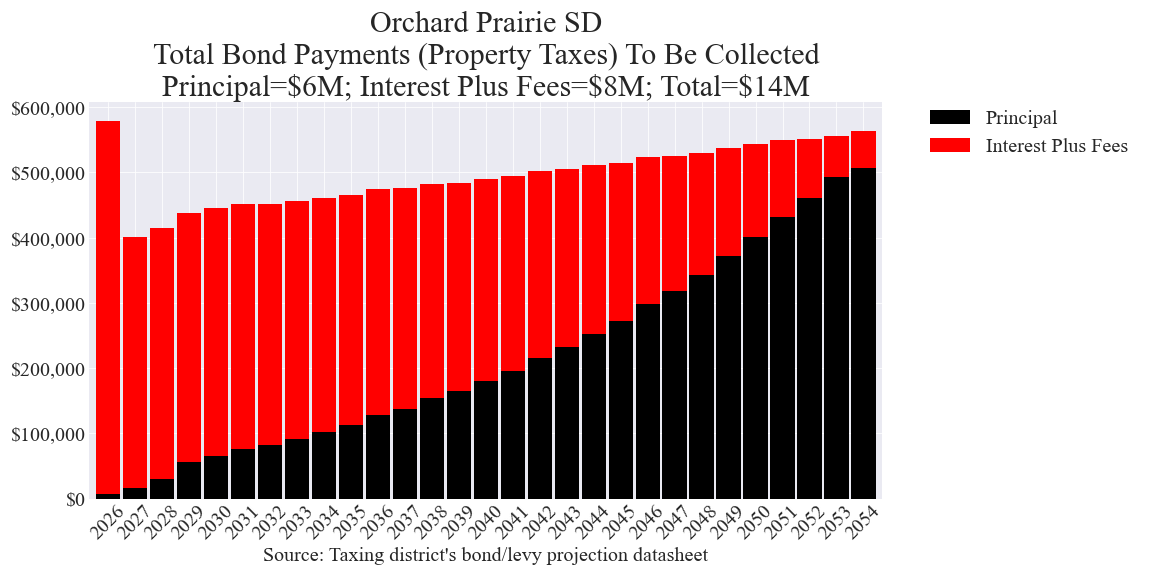
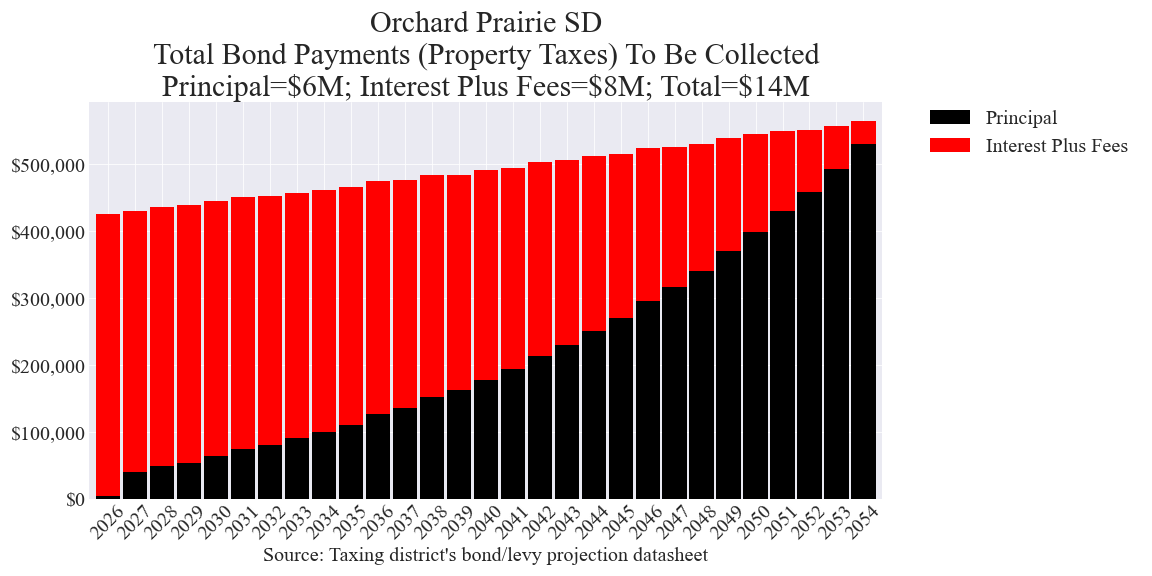
Updated elec 20241105
Mod:
Orchard Prairie

diff --git a/_includes/cost_estimates/20241105/OrchardPrairie_20241105_Enhanced.html b/_includes/cost_estimates/20241105/OrchardPrairie_20241105_Enhanced.html
@@ -16,7 +16,7 @@
 	sampleParcelAVMin = 100000;
 	sampleParcelAVMax = 2000000;
 	totalBondPrincipal = 6200000;
-	totalBondInterest = 8179000;
+	totalBondInterest = 8074000;
 	totalBondCost = totalBondPrincipal + totalBondInterest;
 	sampleParcelPOF = sampleParcelAV / totalBondAV;
 	totalBondCostParcel = 0;
@@ -39,35 +39,35 @@
 		data.addColumn('number', 'Interest + Fees');
 
 		data.addRows([
-			['2026', 7360.0, 571640.0],
-			['2027', 15818.0, 385182.0],
-			['2028', 30802.0, 384198.0],
-			['2029', 55718.0, 382282.0],
-			['2030', 66183.0, 378817.0],
-			['2031', 76300.0, 374700.0],
-			['2032', 82046.0, 369954.0],
-			['2033', 92149.0, 364851.0],
-			['2034', 101880.0, 359120.0],
-			['2035', 112217.0, 352783.0],
-			['2036', 128197.0, 345803.0],
-			['2037', 138171.0, 337829.0],
-			['2038', 153765.0, 329235.0],
-			['2039', 164330.0, 319670.0],
-			['2040', 180551.0, 309449.0],
-			['2041', 195781.0, 298219.0],
-			['2042', 215959.0, 286041.0],
-			['2043', 232392.0, 272608.0],
-			['2044', 252846.0, 258154.0],
-			['2045', 272573.0, 242427.0],
-			['2046', 298527.0, 225473.0],
-			['2047', 318096.0, 206904.0],
-			['2048', 342881.0, 187119.0],
-			['2049', 372209.0, 165791.0],
-			['2050', 401360.0, 142640.0],
-			['2051', 431325.0, 117675.0],
-			['2052', 460153.0, 90847.0],
-			['2053', 493774.0, 62226.0],
-			['2054', 506637.0, 57363.0],
+			['2026', 4020.0, 420980.0],
+			['2027', 39273.0, 389727.0],
+			['2028', 48743.0, 387257.0],
+			['2029', 53809.0, 384191.0],
+			['2030', 64194.0, 380806.0],
+			['2031', 74231.0, 376769.0],
+			['2032', 79901.0, 372099.0],
+			['2033', 89926.0, 367074.0],
+			['2034', 99583.0, 361417.0],
+			['2035', 109846.0, 355154.0],
+			['2036', 125756.0, 348244.0],
+			['2037', 135666.0, 340334.0],
+			['2038', 151199.0, 331801.0],
+			['2039', 161710.0, 322290.0],
+			['2040', 177881.0, 312119.0],
+			['2041', 193070.0, 300930.0],
+			['2042', 213214.0, 288786.0],
+			['2043', 229625.0, 275375.0],
+			['2044', 250069.0, 260931.0],
+			['2045', 269798.0, 245202.0],
+			['2046', 295768.0, 228232.0],
+			['2047', 315372.0, 209628.0],
+			['2048', 340209.0, 189791.0],
+			['2049', 369608.0, 168392.0],
+			['2050', 398856.0, 145144.0],
+			['2051', 428944.0, 120056.0],
+			['2052', 457925.0, 93075.0],
+			['2053', 491729.0, 64271.0],
+			['2054', 530075.0, 33925.0],
 
 		]);
 
@@ -174,9 +174,9 @@
 		data5.addRows([
 			['2024', 0, 0, 0, 0, 0, 0, 225000, 0, 397518, 724513],
 			['2025', 0, 0, 0, 0, 0, 0, 225000, 0, 0, 0],
-			['2026', 0, 579000, 0, 0, 0, 0, 0, 240000, 0, 0],
-			['2027', 0, 401000, 0, 0, 0, 0, 0, 245000, 0, 0],
-			['2028', 0, 415000, 0, 0, 0, 0, 0, 248000, 0, 0],
+			['2026', 0, 425000, 0, 0, 0, 0, 0, 240000, 0, 0],
+			['2027', 0, 429000, 0, 0, 0, 0, 0, 245000, 0, 0],
+			['2028', 0, 436000, 0, 0, 0, 0, 0, 248000, 0, 0],
 			['2029', 0, 438000, 0, 0, 0, 0, 0, 250000, 0, 0],
 			['2030', 0, 445000, 0, 0, 0, 0, 0, 252000, 0, 0],
 			['2031', 0, 451000, 0, 0, 0, 0, 0, 255000, 0, 0],
@@ -291,9 +291,9 @@
 		data6.addRows([
 			['2024', 0, 0, 0, 0, 0, 0, 225000, 0, 397518, 724513],
 			['2025', 0, 0, 0, 0, 0, 0, 225000, 0, 0, 0],
-			['2026', 0, 579000, 0, 0, 0, 0, 0, 240000, 0, 0],
-			['2027', 0, 401000, 0, 0, 0, 0, 0, 245000, 0, 0],
-			['2028', 0, 415000, 0, 0, 0, 0, 0, 248000, 0, 0],
+			['2026', 0, 425000, 0, 0, 0, 0, 0, 240000, 0, 0],
+			['2027', 0, 429000, 0, 0, 0, 0, 0, 245000, 0, 0],
+			['2028', 0, 436000, 0, 0, 0, 0, 0, 248000, 0, 0],
 			['2029', 0, 438000, 0, 0, 0, 0, 0, 250000, 0, 0],
 			['2030', 0, 445000, 0, 0, 0, 0, 0, 252000, 0, 0],
 			['2031', 0, 451000, 0, 0, 0, 0, 0, 255000, 0, 0],
